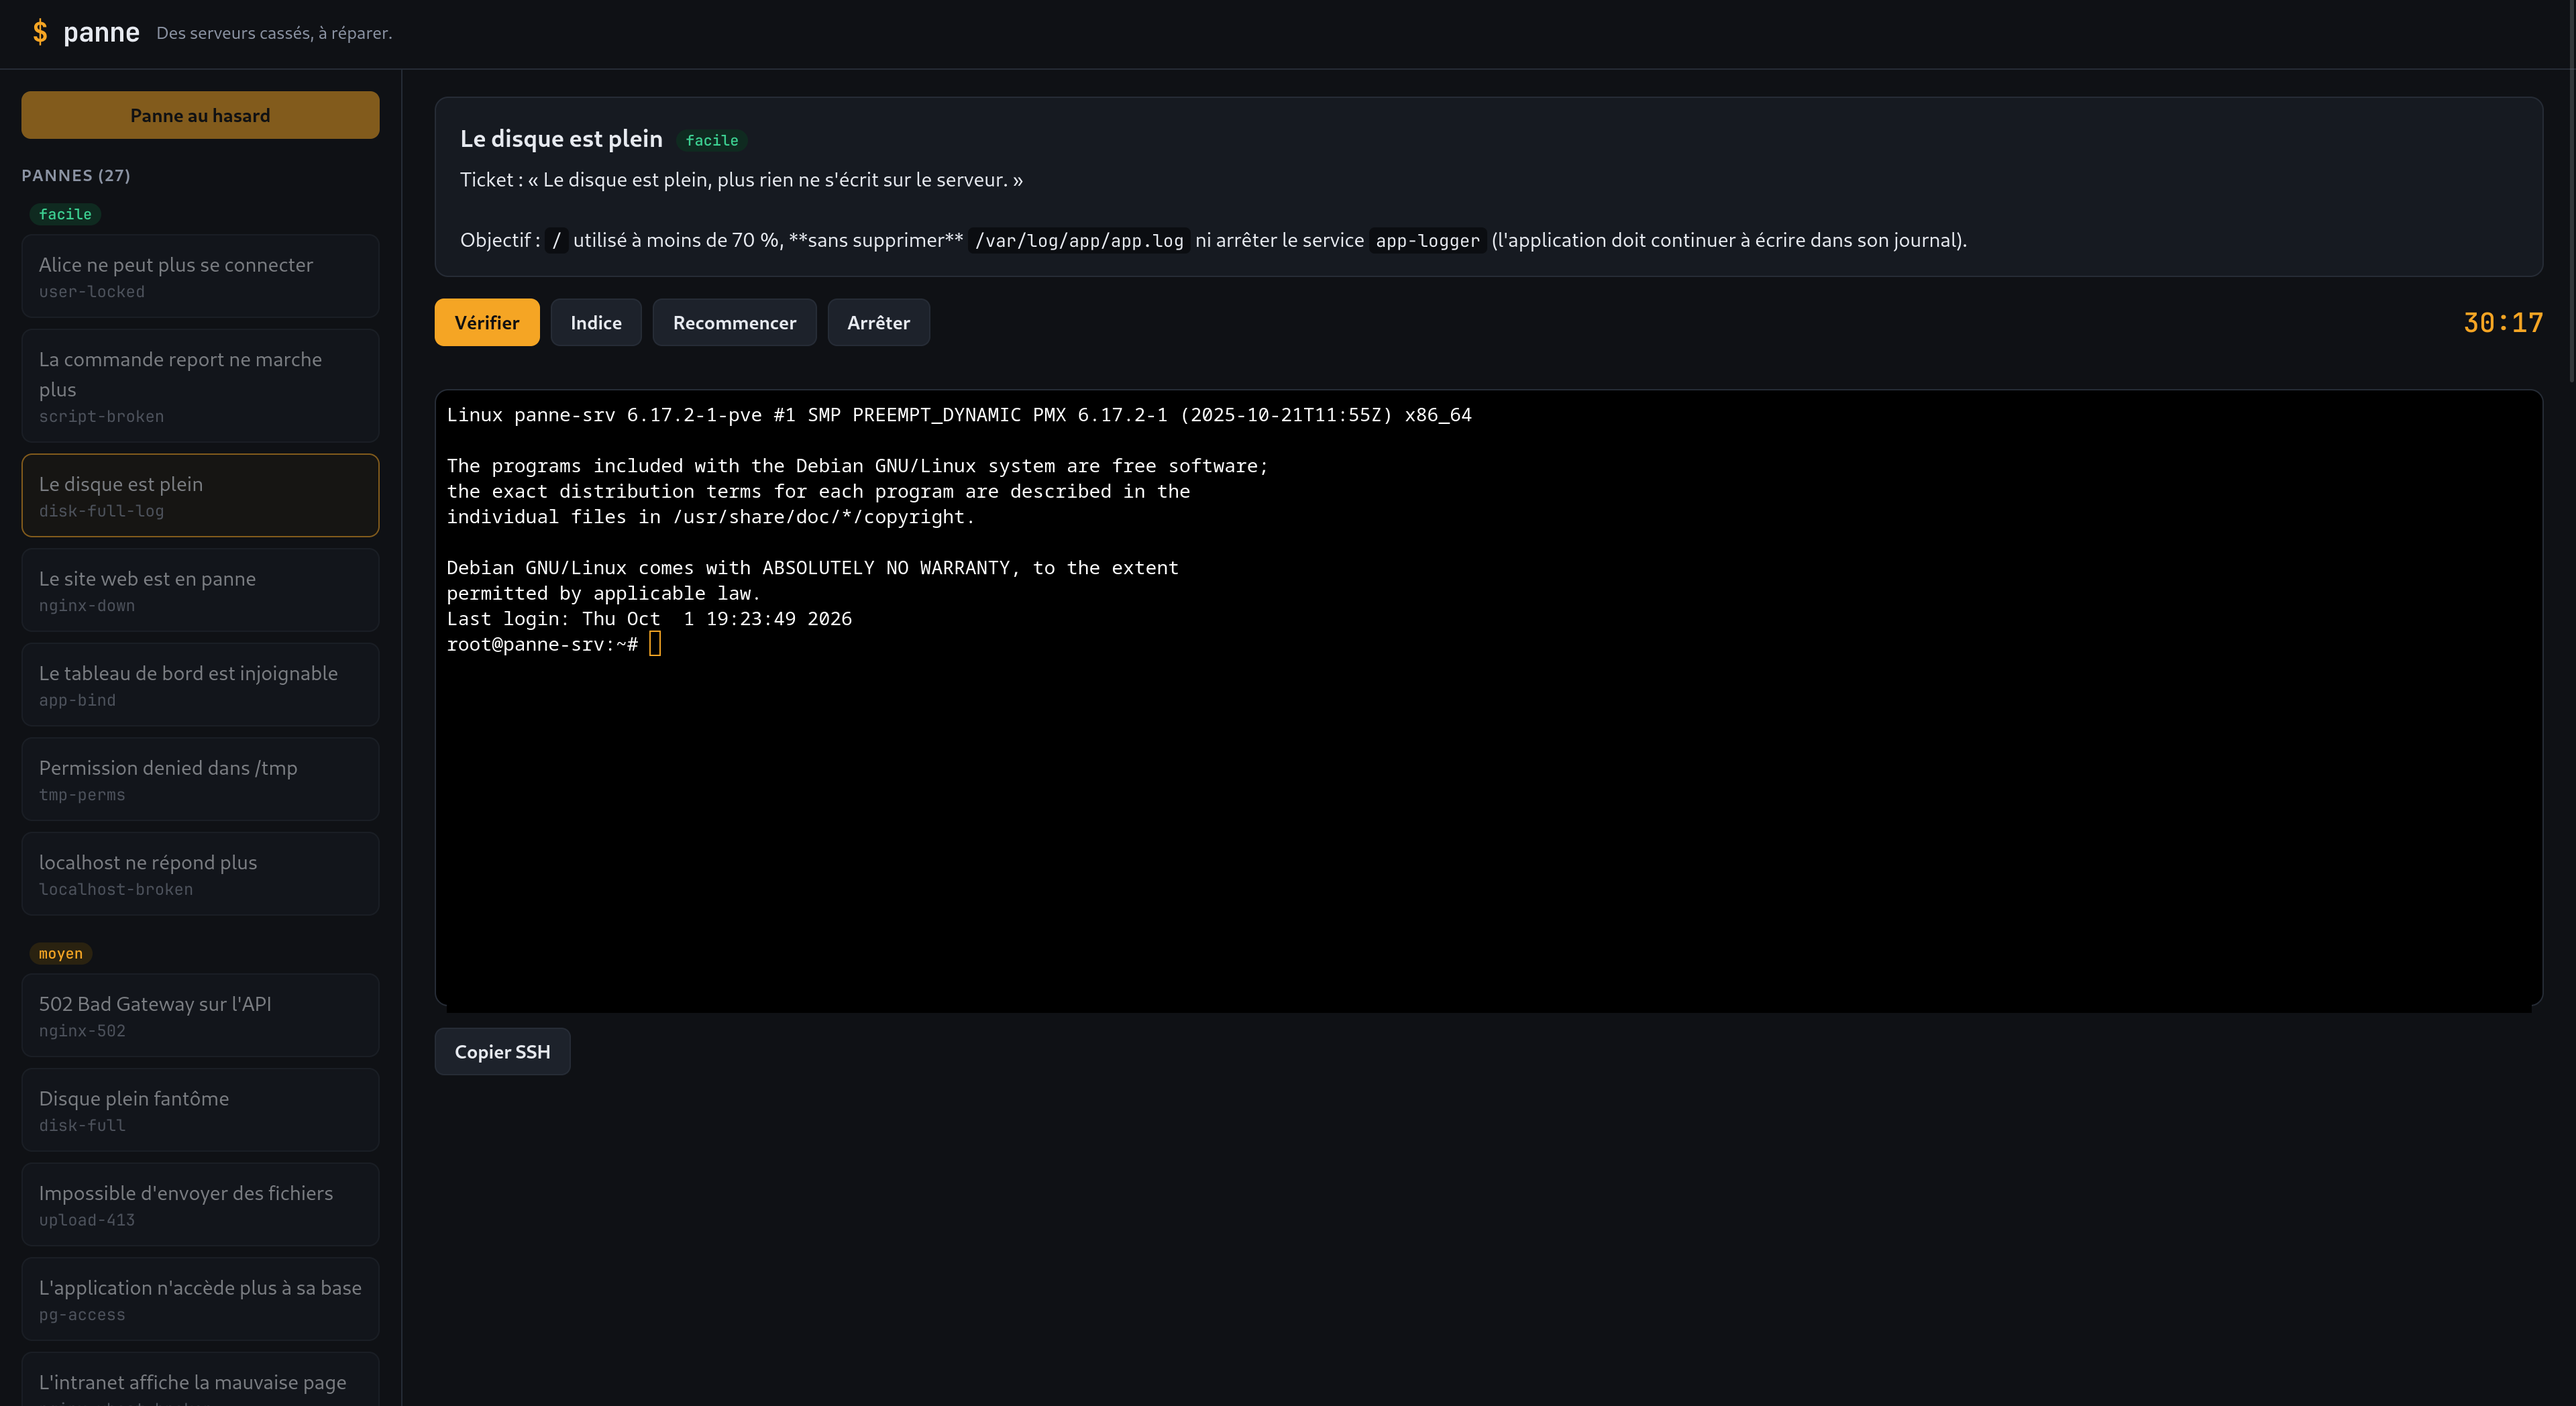
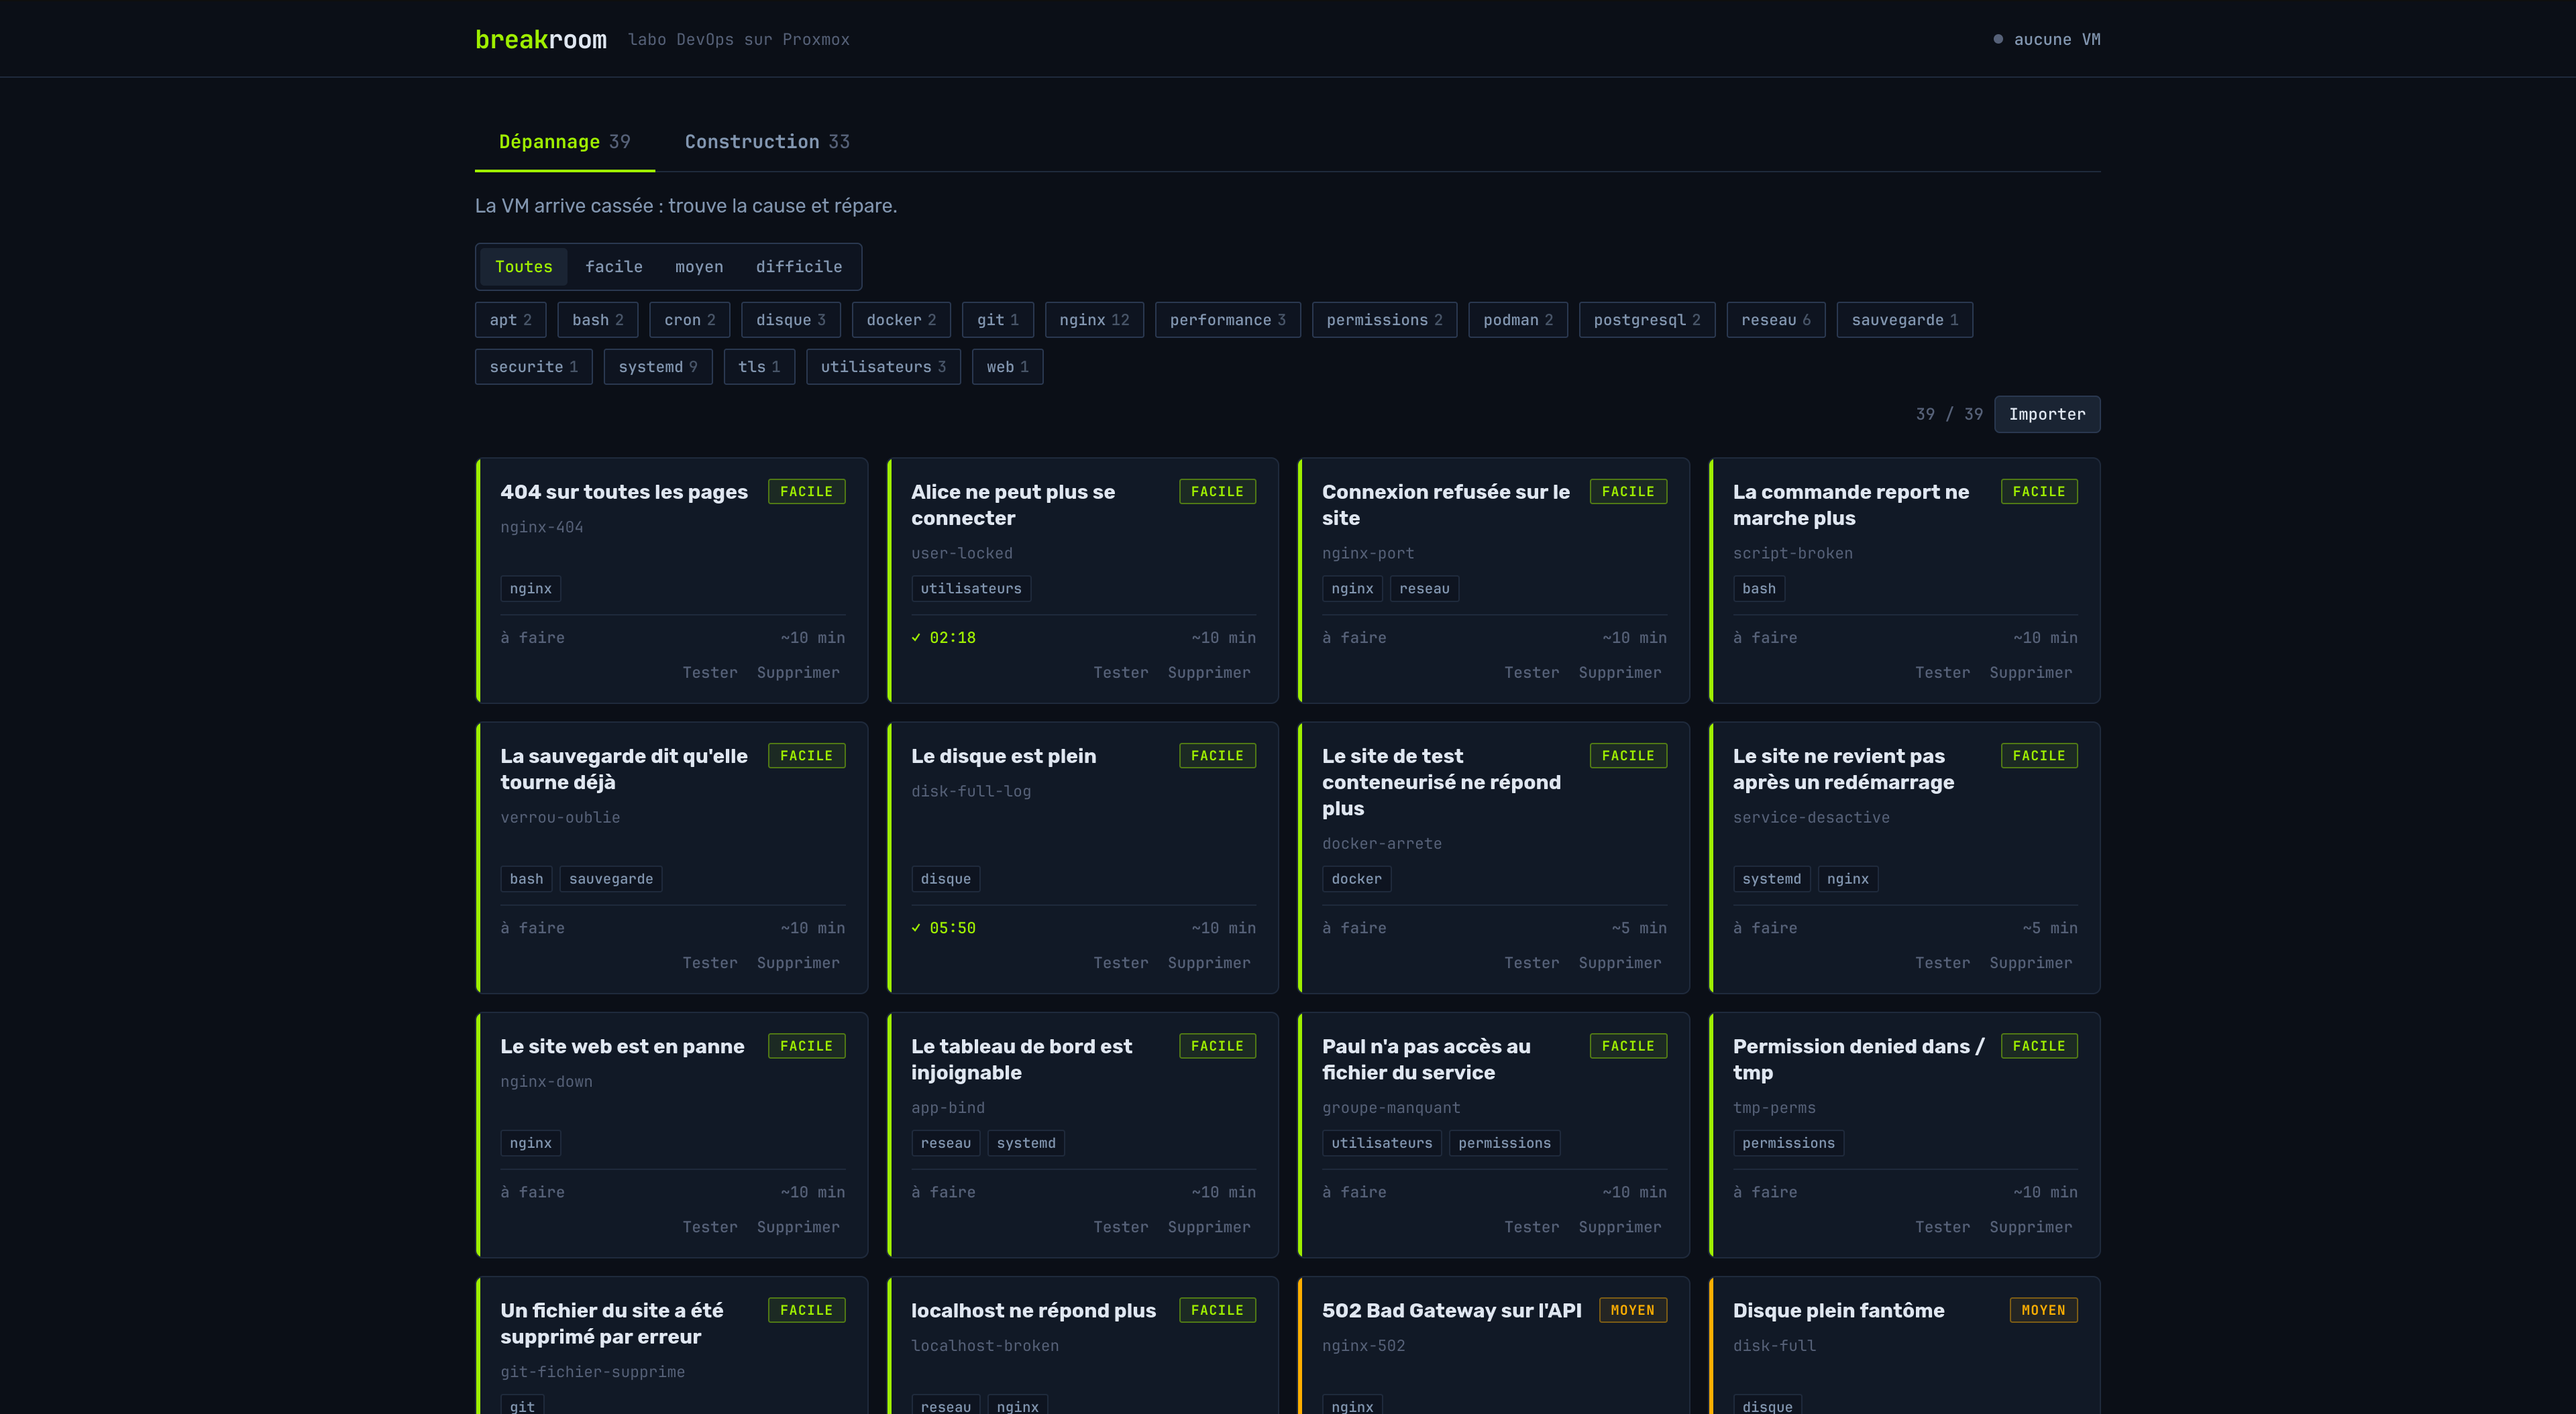
[UPDATE] README.md

diff --git a/README.md b/README.md
@@ -1,12 +1,14 @@
 # proxmox-breakroom
 
-Un labo de dépannage Linux façon [SadServers](https://sadservers.com), qui tourne chez soi sur Proxmox.
+Un labo de dépannage Linux façon [SadServers](https://sadservers.com) et [Hack The Box](https://www.hackthebox.com/), qui tourne chez soi sur Proxmox.
 
 Le principe : on clique sur un scénario, un conteneur LXC neuf est créé **déjà cassé** (service en panne, disque plein, DNS faux…), et on le répare depuis un terminal dans le navigateur ou via ssh. Un bouton vérifie si c'est réglé.
 
 J'ai créé ce projet pour m'entraîner au dépannage DevOps / cloud.
 
 ![Interface de proxmox-breakroom](pictures/screenshot.png)
+
+![Interface de proxmox-breakroom vu dans le challenges](pictures/screenshot-1.png)
 
 ## Fonctionnalités
 
